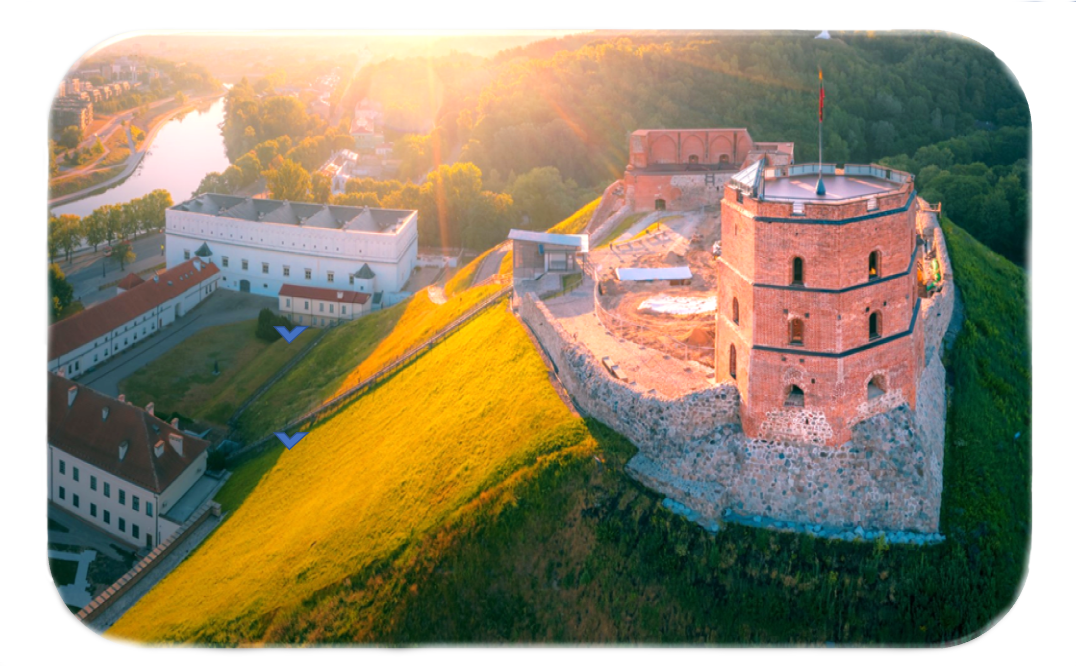
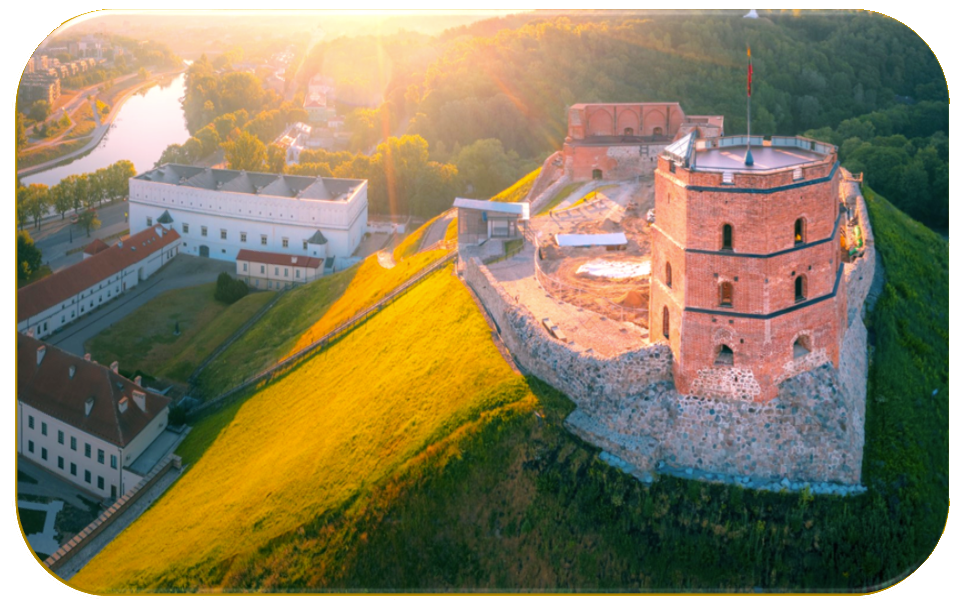
Fix HomePageCastle Image

diff --git a/StudioVILithuania/src/Main/MyHomePage.java b/StudioVILithuania/src/Main/MyHomePage.java
@@ -146,18 +146,16 @@ public class MyHomePage {
 		ImageIcon CastleHome = new ImageIcon("StudioVILithuania/HomePageImages/CastleHomePage.PNG");
 		JLabel jlPic2 = new JLabel(CastleHome);
 		Dimension sizeSix = jlPic2.getPreferredSize();
-		jlPic2.setBounds(280 + insets.left, -33 + insets.bottom, sizeSix.width, 200 + sizeSix.height);
+		jlPic2.setBounds(330 + insets.left, 6 + insets.bottom, sizeSix.width, 200 + sizeSix.height);
 		panel.add(jlPic2);
 
 		// Color yellow
 		Color myYellow = new Color(245, 185, 19);
-		Color myGreen = new Color(0, 106, 68);
-		Color myRed = new Color(193, 39, 45);
 
 		// sets panel to my custom color
 		panel.setBackground(myYellow);
 		// makes frame visible
-		//device.setFullScreenWindow(frame);
+		// device.setFullScreenWindow(frame);
 		frame.setVisible(true);
 
 	}
